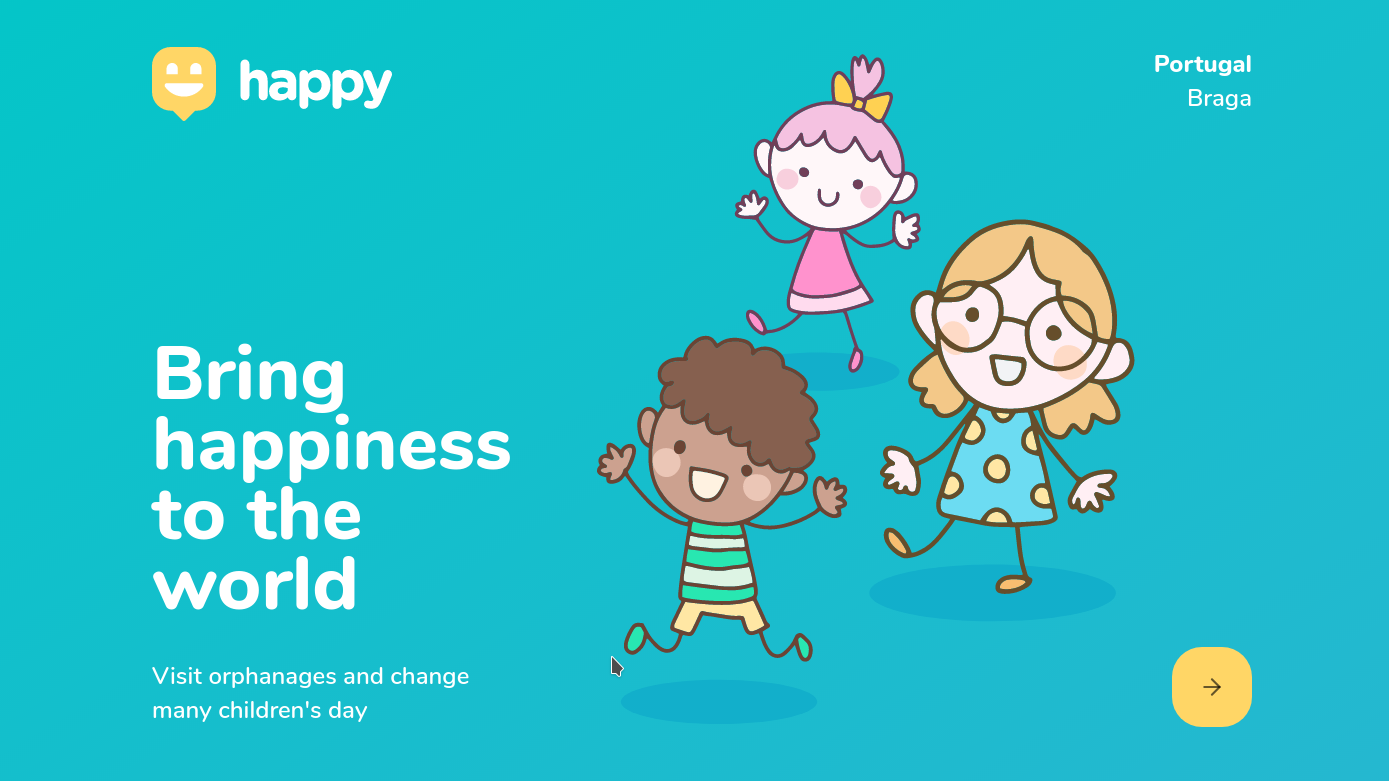
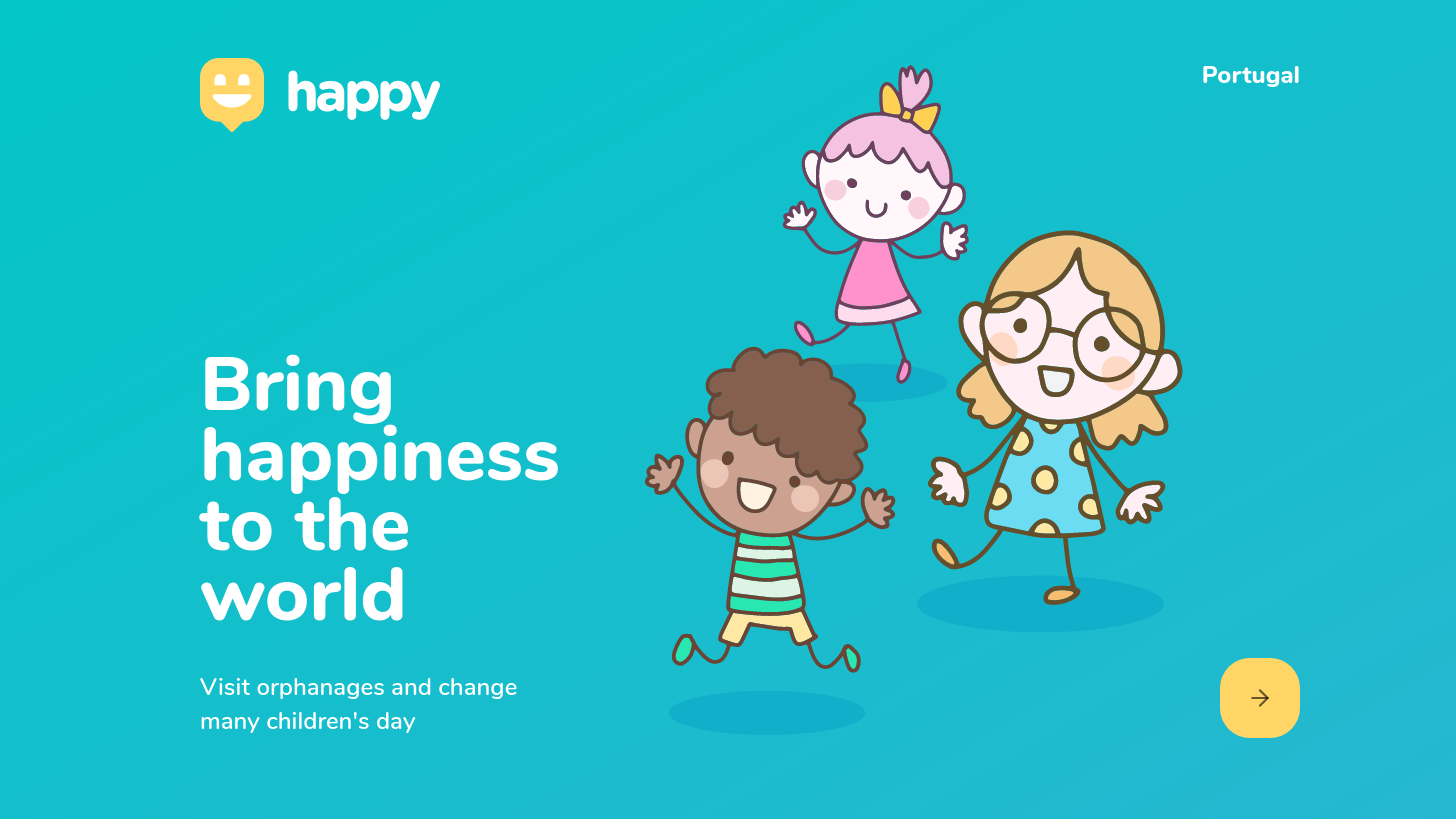
fix: Fix problem with orphanage button zindex

diff --git a/web/src/pages/Landing.tsx b/web/src/pages/Landing.tsx
@@ -20,7 +20,6 @@ function Landing() {
 
 				<div className="location">
 					<strong>Portugal</strong>
-					<span>Braga</span>
 				</div>
 
 				<Link to="/app" className="enter-app">

diff --git a/mobile/src/services/api.ts b/mobile/src/services/api.ts
@@ -1,7 +1,7 @@
 import axios from 'axios';
 
 const api = axios.create({
-  baseURL: 'http://192.168.1.6:3333',
+  baseURL: 'http://localhost:3333',
 });
 
 export default api;

diff --git a/web/src/styles/pages/orphanages-map.css b/web/src/styles/pages/orphanages-map.css
@@ -55,6 +55,7 @@
   align-items: center;
 
   transition: background-color 0.2s;
+  z-index: 400;
 }
 
 #page-map .create-orphanage:hover {

diff --git a/README.md b/README.md
@@ -1,0 +1,26 @@
+# Happy
+The Happy goal is to help people to understand and contribute to the lives of orphaned children.<br />
+With this application you can see the residential institutions for the care and protection of orphans and ask for a visit.
+
+<p align="center">
+  <img alt="Happy" src=".github/happy-background.png" width="100%">
+</p>
+
+## Tools
+- Node.js
+- React
+- React Native
+- Expo
+- TypeScript
+
+## Instructions
+1. Enter in the directories backend, mobile and web.
+2. In each one, you need to install all projects dependencies. 
+  * Use your terminal for execute the commands below:
+    * yarn install
+    * yarn start 
+3. Now you can see the web application using this address: http://localhost:3000.
+4. For access the mobile app you need to follow the Expo instructions in your terminal.
+5. That's it!
+
+The project was developed in the NLW event provided by Rocketseat 💜
